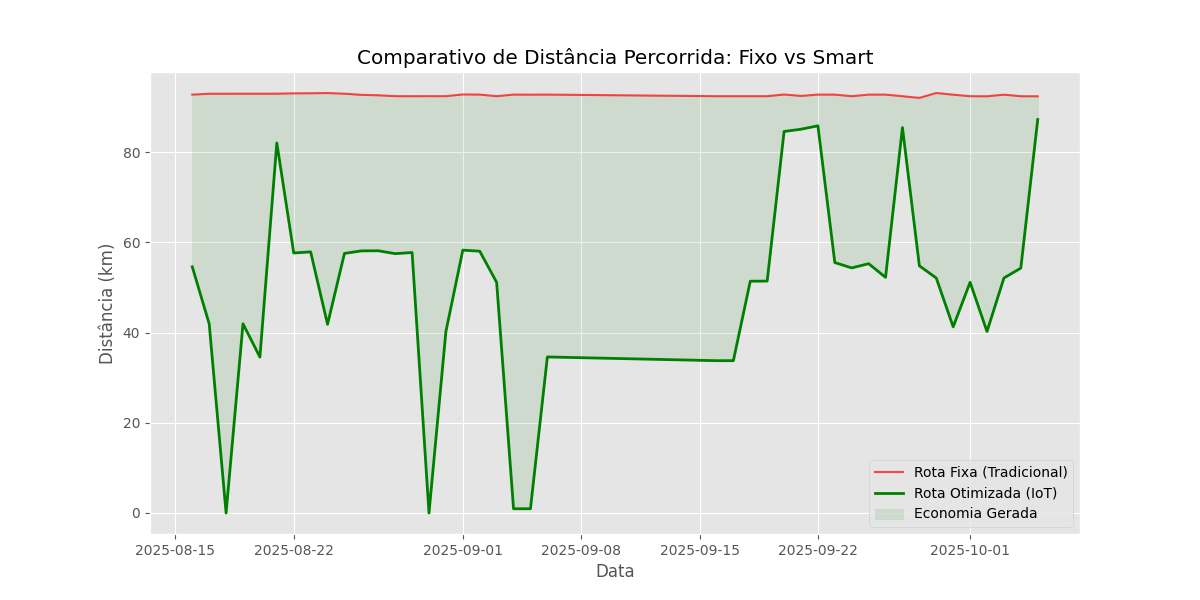
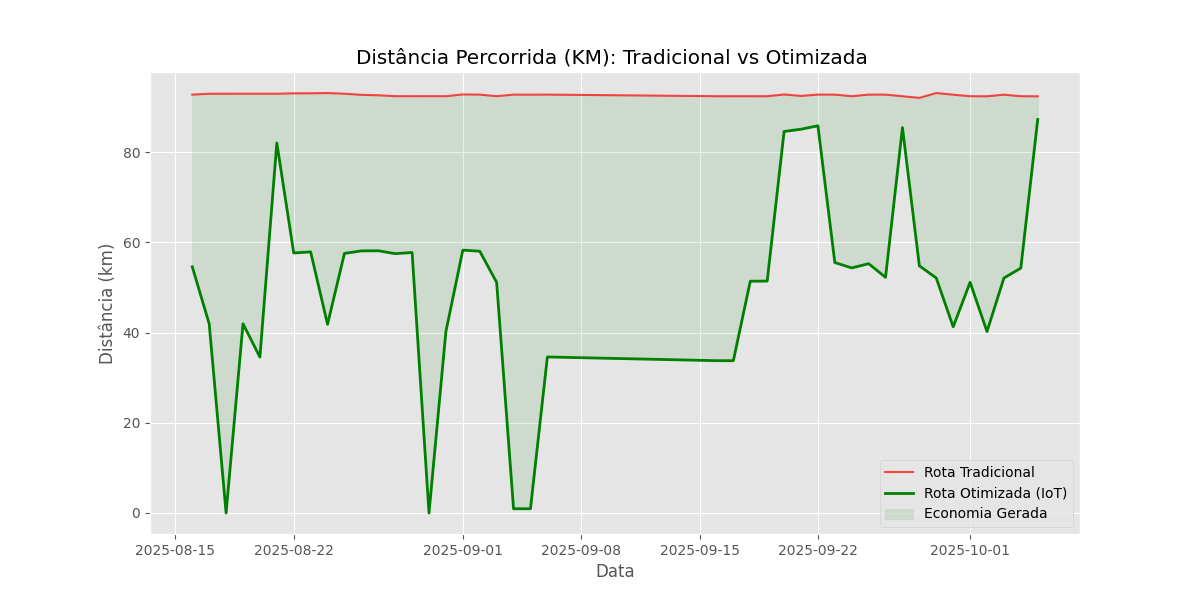
Finalização do trabalho2

Changed region(s): [[0.3083, 0.06, 0.74, 0.12], [0.74, 0.78, 0.8942, 0.87]]

diff --git a/simulation.py b/simulation.py
@@ -154,10 +154,10 @@ def rodar_simulacao():
     
     # Gráfico 1: Comparativo Diário de Distância
     plt.figure(figsize=(12, 6))
-    plt.plot(df_res['Data'], df_res['Distancia_Fixa'], label='Rota Fixa (Tradicional)', color='red', alpha=0.7)
+    plt.plot(df_res['Data'], df_res['Distancia_Fixa'], label='Rota Tradicional', color='red', alpha=0.7)
     plt.plot(df_res['Data'], df_res['Distancia_Smart'], label='Rota Otimizada (IoT)', color='green', linewidth=2)
     plt.fill_between(df_res['Data'], df_res['Distancia_Smart'], df_res['Distancia_Fixa'], color='green', alpha=0.1, label='Economia Gerada')
-    plt.title('Comparativo de Distância Percorrida: Fixo vs Smart')
+    plt.title('Distância Percorrida (KM): Tradicional vs Otimizada ')
     plt.ylabel('Distância (km)')
     plt.xlabel('Data')
     plt.legend()
@@ -176,9 +176,9 @@ def rodar_simulacao():
                     (pd.to_datetime(df_res['Data']) <= pd.to_datetime('2025-09-30'))]
     
     plt.bar(df_set['Data'], df_set['Paradas_Fixa'], width=0.4, label='Paradas Totais (Cenário Fixo)', color='gray')
-    plt.bar(df_set['Data'], df_set['Paradas_Smart'], width=0.4, label='Paradas Necessárias (Cenário Smart)', color='green')
+    plt.bar(df_set['Data'], df_set['Paradas_Smart'], width=0.4, label='Paradas Necessárias (Cenário Otimizado)', color='green')
     
-    plt.title('Eficiência Operacional: Paradas Realizadas vs Necessárias (Setembro 2025)')
+    plt.title('Paradas: Realizadas vs. Necessárias')
     plt.ylabel('Número de Coletas')
     plt.xticks(rotation=45)
     plt.legend()
